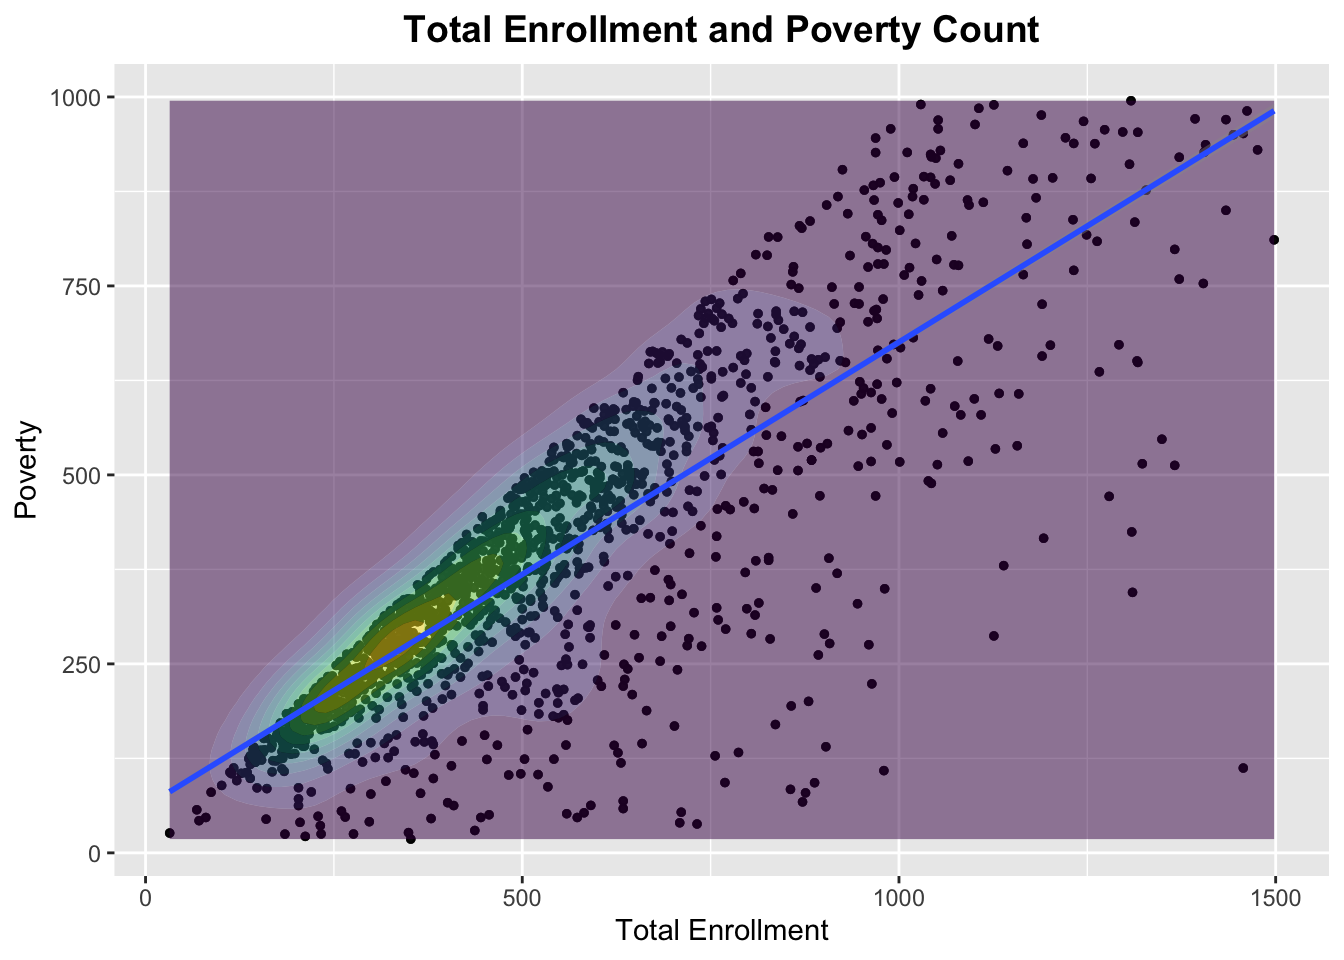
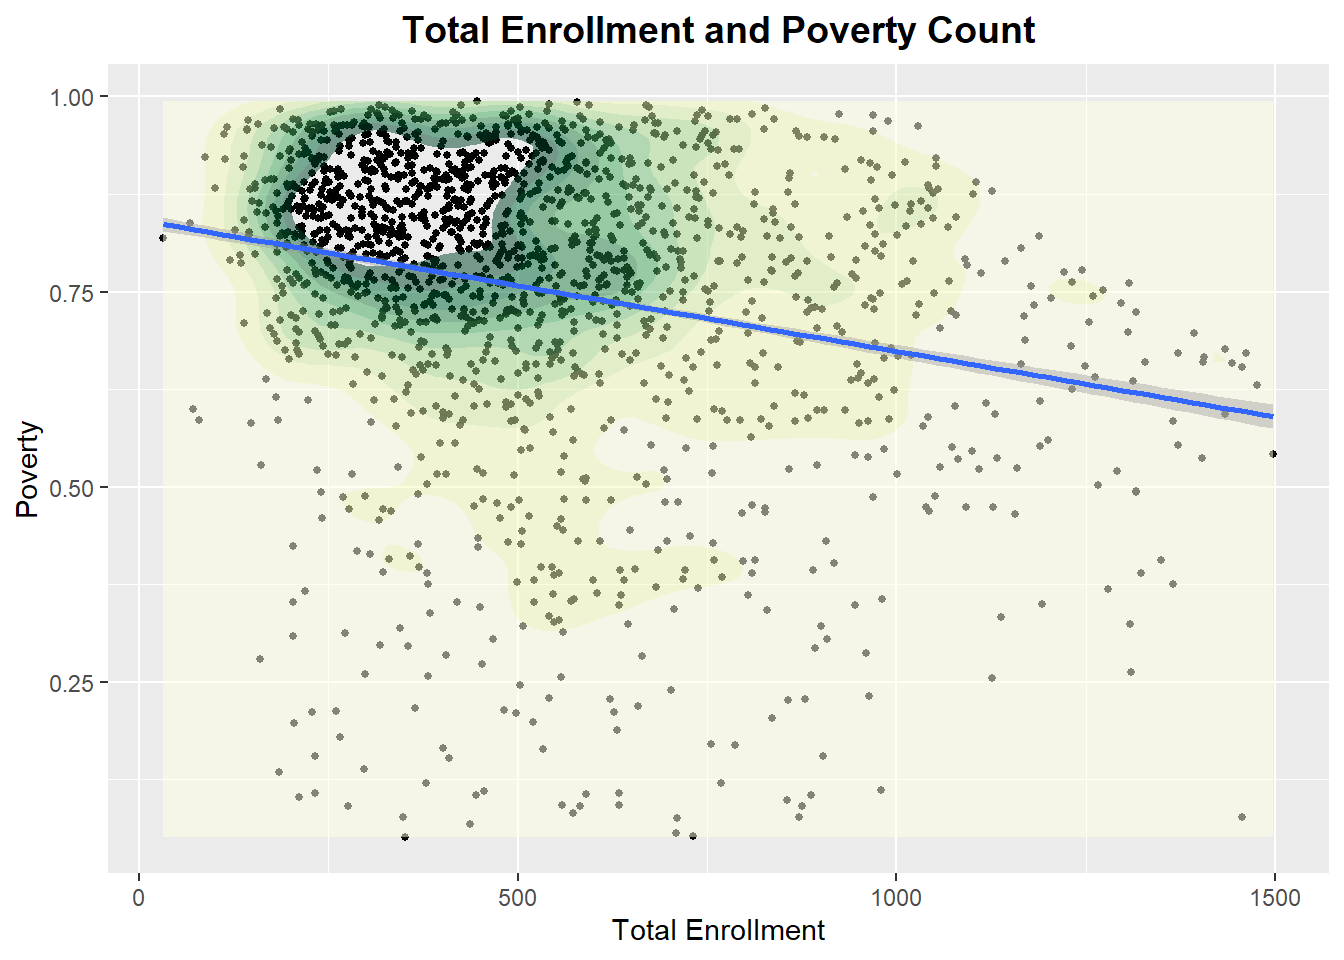
finish 05

diff --git a/docs/results.html b/docs/results.html
@@ -59,70 +59,6 @@
 <script src="libs/d3-5.16.0/d3.min.js"></script>
 
 
-<style type="text/css">
-pre > code.sourceCode { white-space: pre; position: relative; }
-pre > code.sourceCode > span { display: inline-block; line-height: 1.25; }
-pre > code.sourceCode > span:empty { height: 1.2em; }
-.sourceCode { overflow: visible; }
-code.sourceCode > span { color: inherit; text-decoration: inherit; }
-pre.sourceCode { margin: 0; }
-@media screen {
-div.sourceCode { overflow: auto; }
-}
-@media print {
-pre > code.sourceCode { white-space: pre-wrap; }
-pre > code.sourceCode > span { text-indent: -5em; padding-left: 5em; }
-}
-pre.numberSource code
-  { counter-reset: source-line 0; }
-pre.numberSource code > span
-  { position: relative; left: -4em; counter-increment: source-line; }
-pre.numberSource code > span > a:first-child::before
-  { content: counter(source-line);
-    position: relative; left: -1em; text-align: right; vertical-align: baseline;
-    border: none; display: inline-block;
-    -webkit-touch-callout: none; -webkit-user-select: none;
-    -khtml-user-select: none; -moz-user-select: none;
-    -ms-user-select: none; user-select: none;
-    padding: 0 4px; width: 4em;
-    color: #aaaaaa;
-  }
-pre.numberSource { margin-left: 3em; border-left: 1px solid #aaaaaa;  padding-left: 4px; }
-div.sourceCode
-  {   }
-@media screen {
-pre > code.sourceCode > span > a:first-child::before { text-decoration: underline; }
-}
-code span.al { color: #ff0000; font-weight: bold; } /* Alert */
-code span.an { color: #60a0b0; font-weight: bold; font-style: italic; } /* Annotation */
-code span.at { color: #7d9029; } /* Attribute */
-code span.bn { color: #40a070; } /* BaseN */
-code span.bu { } /* BuiltIn */
-code span.cf { color: #007020; font-weight: bold; } /* ControlFlow */
-code span.ch { color: #4070a0; } /* Char */
-code span.cn { color: #880000; } /* Constant */
-code span.co { color: #60a0b0; font-style: italic; } /* Comment */
-code span.cv { color: #60a0b0; font-weight: bold; font-style: italic; } /* CommentVar */
-code span.do { color: #ba2121; font-style: italic; } /* Documentation */
-code span.dt { color: #902000; } /* DataType */
-code span.dv { color: #40a070; } /* DecVal */
-code span.er { color: #ff0000; font-weight: bold; } /* Error */
-code span.ex { } /* Extension */
-code span.fl { color: #40a070; } /* Float */
-code span.fu { color: #06287e; } /* Function */
-code span.im { } /* Import */
-code span.in { color: #60a0b0; font-weight: bold; font-style: italic; } /* Information */
-code span.kw { color: #007020; font-weight: bold; } /* Keyword */
-code span.op { color: #666666; } /* Operator */
-code span.ot { color: #007020; } /* Other */
-code span.pp { color: #bc7a00; } /* Preprocessor */
-code span.sc { color: #4070a0; } /* SpecialChar */
-code span.ss { color: #bb6688; } /* SpecialString */
-code span.st { color: #4070a0; } /* String */
-code span.va { color: #19177c; } /* Variable */
-code span.vs { color: #4070a0; } /* VerbatimString */
-code span.wa { color: #60a0b0; font-weight: bold; font-style: italic; } /* Warning */
-</style>
 
 
 <link rel="stylesheet" href="style.css" type="text/css" />
@@ -187,13 +123,8 @@ code span.wa { color: #60a0b0; font-weight: bold; font-style: italic; } /* Warni
 <li class="chapter" data-level="5.4" data-path="results.html"><a href="results.html#correlation-hypothesis-and-analysis"><i class="fa fa-check"></i><b>5.4</b> Correlation Hypothesis and Analysis</a>
 <ul>
 <li class="chapter" data-level="5.4.1" data-path="results.html"><a href="results.html#poverty-rate-and-school-population"><i class="fa fa-check"></i><b>5.4.1</b> Poverty Rate and School Population</a></li>
-<li class="chapter" data-level="5.4.2" data-path="results.html"><a href="results.html#total-enrollment-and-ethnicity-composition"><i class="fa fa-check"></i><b>5.4.2</b> Total Enrollment and Ethnicity Composition</a></li>
-<li class="chapter" data-level="5.4.3" data-path="results.html"><a href="results.html#three-way-interaction-asian-composition-total-enrollment-poverty"><i class="fa fa-check"></i><b>5.4.3</b> Three-way Interaction: Asian Composition, Total Enrollment, Poverty</a></li>
-<li class="chapter" data-level="5.4.4" data-path="results.html"><a href="results.html#three-way-interaction-black-composition-total-enrollment-poverty"><i class="fa fa-check"></i><b>5.4.4</b> Three-way Interaction: Black Composition, Total Enrollment, Poverty</a></li>
-<li class="chapter" data-level="5.4.5" data-path="results.html"><a href="results.html#three-way-interaction-hispanic-composition-total-enrollment-poverty"><i class="fa fa-check"></i><b>5.4.5</b> Three-way Interaction: Hispanic Composition, Total Enrollment, Poverty</a></li>
-<li class="chapter" data-level="5.4.6" data-path="results.html"><a href="results.html#three-way-interaction-white-composition-total-enrollment-poverty"><i class="fa fa-check"></i><b>5.4.6</b> Three-way Interaction: White Composition, Total Enrollment, Poverty</a></li>
-<li class="chapter" data-level="5.4.7" data-path="results.html"><a href="results.html#larger-school-more-balanced-ethnicity-group"><i class="fa fa-check"></i><b>5.4.7</b> Larger School, More balanced Ethnicity Group?</a></li>
-<li class="chapter" data-level="5.4.8" data-path="results.html"><a href="results.html#gender-composition-and-ethnicity"><i class="fa fa-check"></i><b>5.4.8</b> Gender Composition and Ethnicity</a></li>
+<li class="chapter" data-level="5.4.2" data-path="results.html"><a href="results.html#three-way-interaction-race-composition-total-enrollment-poverty"><i class="fa fa-check"></i><b>5.4.2</b> Three-way Interaction: Race Composition, Total Enrollment, Poverty</a></li>
+<li class="chapter" data-level="5.4.3" data-path="results.html"><a href="results.html#gender-composition-and-poverty"><i class="fa fa-check"></i><b>5.4.3</b> Gender Composition and Poverty</a></li>
 </ul></li>
 </ul></li>
 <li class="chapter" data-level="6" data-path="interactive-component.html"><a href="interactive-component.html"><i class="fa fa-check"></i><b>6</b> Interactive component</a></li>
@@ -272,8 +203,8 @@ code span.wa { color: #60a0b0; font-weight: bold; font-style: italic; } /* Warni
 </ul>
 <p>Below we create a random sample of school to create a parallel coordinate plot. You can select, drag and reorder the columns to get a glimpse of race and ethnicity diversity in New York City public school.</p>
 <p><strong>Hint:</strong> Try to select sample with higher percentage of Black students, what’s the pattern considering other race group and location?</p>
-<div class="parcoords html-widget" height="480" id="htmlwidget-eb25a7f90b68626e1d12" style="width:672px;height:480px; position:relative; overflow-x:auto; overflow-y:hidden; max-width:100%;" width="672"></div>
-<script type="application/json" data-for="htmlwidget-eb25a7f90b68626e1d12">{"x":{"data":{"names":["1","2","3","4","5","6","7","8","9","10","11","12","13","14","15","16","17","18","19","20"],"School.Name":["I. S. 381","P.S. 051 Elias Howe","P.S. 087 William Sherman","Milton Fein School","Manhattan Bridges High School","Arturo A. Schomburg Satellite Academy Bronx","John Ericsson Middle School 126","P.S. 74 Future Leaders Elementary School","P.S. 169 Bay Terrace","Leadership Prep Bedford Stuyvesant Uncommon Prep C","P.S. 196 Grand Central Parkway","Success Academy Charter School - Harlem 1","I.S. 171 Abraham Lincoln","The Urban Assembly School for Law and Justice","H.E.R.O. High (Health, Education, and Research Occ","I.S. X318 Math, Science & Technology Through Arts","I.S. 072 Rocco Laurie","P.S. 307 Daniel Hale Williams","P.S. 062 Inocensio Casanova","P.S. 209"],"asian":[7.4,19.4,6.8,4.7,0.2,0.5,2.6,7,35.5,1,37,1.1,5.7,2.4,1.2,0,22.5,3.2,0.3,0.8],"black":[63.6,13.2,4.9,6.2,0.2,39.5,21.9,23,5.2,86.8,2.6,71.7,10.9,67.3,36.7,29.3,4.5,61.9,21.1,20.3],"white":[9,14.5,64,6.9,0,2.4,6.4,6.7,35.1,1,39.7,1.7,2,1.6,0.9,3,49.9,4.1,2.1,0],"hispanic":[20.1,49.7,14.8,81.8,99,57.1,68.7,62.9,21.8,8.9,13.5,22.6,77.9,24.7,58.9,67.7,22.3,28.6,76,78.9],"others":[0,3.3,9.5,0.4,0.6,0.5,0.4,0.3,2.5,2.2,7.2,2.9,3.5,4,2.3,0,0.8,2.2,0.5,0],"location":["Brooklyn","Manhattan","Manhattan","Bronx","Manhattan","Bronx","Brooklyn","Staten Island","Queens","Brooklyn","Queens","Manhattan","Brooklyn","Brooklyn","Bronx","Bronx","Staten Island","Brooklyn","Bronx","Bronx"]},"options":{"rownames":false,"color":{"colorBy":"location","colorScale":"scaleOrdinal","colorScheme":"schemeCategory10"},"brushMode":"1D-axes","brushPredicate":"AND","reorderable":true,"margin":{"top":50,"bottom":50,"left":100,"right":50},"mode":"queue","bundlingStrength":0.5,"smoothness":0},"autoresize":false,"tasks":null},"evals":[],"jsHooks":[]}</script>
+<div class="parcoords html-widget" height="480" id="htmlwidget-faf70f4c64348a5e6104" style="width:672px;height:480px; position:relative; overflow-x:auto; overflow-y:hidden; max-width:100%;" width="672"></div>
+<script type="application/json" data-for="htmlwidget-faf70f4c64348a5e6104">{"x":{"data":{"names":["1","2","3","4","5","6","7","8","9","10","11","12","13","14","15","16","17","18","19","20"],"School.Name":["P.S. 159","J.H.S. 194 William Carr","The Hunts Point School","Family Life Academy Charter School","Long Island City High School","M.S. M247 Dual Language Middle School","Brooklyn Arts and Science Elementary School","The Bronx Mathematics Preparatory School","P.S. 193 Gil Hodges","P.S. 023 Richmondtown","P.S. 202 Ernest S. Jenkyns","Bronx Studio School for Writers and Artists","Bronx Early College Academy for Teaching & Learnin","The Anderson School","P.S. 065","Olympus Academy","P.S. K077","Academy of the City Charter School","P.S. 063 Author's Academy","New Design Middle School"],"asian":[44.1,32.7,0.3,0.6,15.6,0,5.3,2.4,17.3,3.8,0.4,0.7,2.6,28.8,1.7,1.6,12.1,20.6,0.7,0.6],"black":[2.2,1.9,29.2,19.6,12.4,0.9,46.6,33.5,45.7,1.1,60.6,22.4,29,5.6,11.4,83.7,45.3,12.2,36.7,55.6],"white":[31.9,33.6,0.3,0.4,6.5,0.9,18.5,0,17.8,77.3,0.9,1,1.8,55.4,0.2,0.5,20.8,13.7,2.9,3.1],"hispanic":[20.4,31.1,70,78.7,63.6,98.1,28.6,63.3,13.6,16.3,37,75.5,66.1,8.5,81,13.2,21.1,51.1,58.9,40.7],"others":[1.3,0.6,0.3,0.6,1.9,0,1.1,0.8,5.6,1.5,1,0.3,0.6,1.7,5.7,1.1,0.7,2.4,0.8,0],"location":["Queens","Queens","Bronx","Bronx","Queens","Manhattan","Brooklyn","Bronx","Brooklyn","Staten Island","Brooklyn","Bronx","Bronx","Manhattan","Brooklyn","Brooklyn","Brooklyn","Queens","Bronx","Manhattan"]},"options":{"rownames":false,"color":{"colorBy":"location","colorScale":"scaleOrdinal","colorScheme":"schemeCategory10"},"brushMode":"1D-axes","brushPredicate":"AND","reorderable":true,"margin":{"top":50,"bottom":50,"left":100,"right":50},"mode":"queue","bundlingStrength":0.5,"smoothness":0},"autoresize":false,"tasks":null},"evals":[],"jsHooks":[]}</script>
 </div>
 <div id="school-type-and-ethnicity-composition" class="section level3" number="5.3.2">
 <h3><span class="header-section-number">5.3.2</span> School Type and Ethnicity Composition</h3>
@@ -302,41 +233,25 @@ According to the stacked percentage barplot of ethnic group distribution in diff
 <p>As projected in Chapter 2, we proposed several relationships which can be further investigated through our dataset. In this section, we are going to look at the relationship between factors which affects school diversity given from different perspectives.</p>
 <div id="poverty-rate-and-school-population" class="section level3" number="5.4.1">
 <h3><span class="header-section-number">5.4.1</span> Poverty Rate and School Population</h3>
+<p>Firstly, we care about the single influencer of Poverty level in public schools. Considering the size of school enrollment and poverty rate, we construct scatter plot to see whether there exists patterns, like larger school with high poverty level or vice versa.</p>
 <p><img src="finalproj_files/figure-html/ch5.8-1.png" width="672" /></p>
-</div>
-<div id="total-enrollment-and-ethnicity-composition" class="section level3" number="5.4.2">
-<h3><span class="header-section-number">5.4.2</span> Total Enrollment and Ethnicity Composition</h3>
+<ul>
+<li><p>As the scatter plot shown, while the variance of sample from public schools are large, it is still possible to see the negative relationship between school size and poverty rate.Most of the public schools in NYC has an enrollment around 250-750 with a poverty ratre higher than 75%.</p></li>
+<li><p>Outliers exist in every dimensions, but there appears to be a straight line border with a negative slope above the collection of points in the plot when total enrollment is larger than 1000.</p></li>
+</ul>
 <p><img src="finalproj_files/figure-html/ch5.15-1.png" width="672" /></p>
 </div>
-<div id="three-way-interaction-asian-composition-total-enrollment-poverty" class="section level3" number="5.4.3">
-<h3><span class="header-section-number">5.4.3</span> Three-way Interaction: Asian Composition, Total Enrollment, Poverty</h3>
-<p><img src="finalproj_files/figure-html/5.9-1.png" width="672" /></p>
-</div>
-<div id="three-way-interaction-black-composition-total-enrollment-poverty" class="section level3" number="5.4.4">
-<h3><span class="header-section-number">5.4.4</span> Three-way Interaction: Black Composition, Total Enrollment, Poverty</h3>
-<p><img src="finalproj_files/figure-html/ch5.10-1.png" width="672" /></p>
-</div>
-<div id="three-way-interaction-hispanic-composition-total-enrollment-poverty" class="section level3" number="5.4.5">
-<h3><span class="header-section-number">5.4.5</span> Three-way Interaction: Hispanic Composition, Total Enrollment, Poverty</h3>
-<p><img src="finalproj_files/figure-html/ch5.11-1.png" width="672" /></p>
-</div>
-<div id="three-way-interaction-white-composition-total-enrollment-poverty" class="section level3" number="5.4.6">
-<h3><span class="header-section-number">5.4.6</span> Three-way Interaction: White Composition, Total Enrollment, Poverty</h3>
+<div id="three-way-interaction-race-composition-total-enrollment-poverty" class="section level3" number="5.4.2">
+<h3><span class="header-section-number">5.4.2</span> Three-way Interaction: Race Composition, Total Enrollment, Poverty</h3>
+<p>As we hypothesized, ethnic composition may have strong relations with the proportion of students in poverty since the minority ethnic groups are more likely to be immigrants and has lower economics income.</p>
 <p><img src="finalproj_files/figure-html/ch5.12-1.png" width="672" /></p>
+<p>The result from scatter plots of ethic group breakdown supports our hypothesis. Apart from white students proportion, the sample of poverty and ethic group proportion are all positive correlated. Moreover, the slope steepness of positive correlation between poverty and proportion of Hispanic students is largest among four ethic groups, indicates that schools with higher proportion of Hispanic students are more likely to have higher poverty level.</p>
 </div>
-<div id="larger-school-more-balanced-ethnicity-group" class="section level3" number="5.4.7">
-<h3><span class="header-section-number">5.4.7</span> Larger School, More balanced Ethnicity Group?</h3>
-</div>
-<div id="gender-composition-and-ethnicity" class="section level3" number="5.4.8">
-<h3><span class="header-section-number">5.4.8</span> Gender Composition and Ethnicity</h3>
-<pre><code>## # A tibble: 5 × 8
-##   location      Asian Hispanic Black Others White  Male Female
-##   &lt;chr&gt;         &lt;dbl&gt;    &lt;dbl&gt; &lt;dbl&gt;  &lt;dbl&gt; &lt;dbl&gt; &lt;dbl&gt;  &lt;dbl&gt;
-## 1 Bronx            25      333   150      7    23   279    260
-## 2 Brooklyn         92      164   224     10    96   303    283
-## 3 Manhattan        60      219   116     14    78   239    247
-## 4 Queens          230      308   152     21   106   425    392
-## 5 Staten Island    73      234   115     15   404   436    406</code></pre>
+<div id="gender-composition-and-poverty" class="section level3" number="5.4.3">
+<h3><span class="header-section-number">5.4.3</span> Gender Composition and Poverty</h3>
+<p>Recall our assumption in chapter 2, we try to explore the relationship between school poverty level and gender composition. Based on social conventions, we want to know whether gender bias in education can also be reflected by observations in NYC public schools.</p>
+<p><img src="finalproj_files/figure-html/unnamed-chunk-5-1.png" width="672" /></p>
+<p>As we shown in poverty level before, most public schools in NYC have large quantity of students in poverty. However, though the poverty level is high, the average proportion of male students in NYC public schools are around 50%, which is a good sign indicating that there’s no bias when considering gender diversity and poverty level.</p>
 
 </div>
 </div>

diff --git a/docs/404.html b/docs/404.html
@@ -59,70 +59,6 @@
 <script src="libs/d3-5.16.0/d3.min.js"></script>
 
 
-<style type="text/css">
-pre > code.sourceCode { white-space: pre; position: relative; }
-pre > code.sourceCode > span { display: inline-block; line-height: 1.25; }
-pre > code.sourceCode > span:empty { height: 1.2em; }
-.sourceCode { overflow: visible; }
-code.sourceCode > span { color: inherit; text-decoration: inherit; }
-pre.sourceCode { margin: 0; }
-@media screen {
-div.sourceCode { overflow: auto; }
-}
-@media print {
-pre > code.sourceCode { white-space: pre-wrap; }
-pre > code.sourceCode > span { text-indent: -5em; padding-left: 5em; }
-}
-pre.numberSource code
-  { counter-reset: source-line 0; }
-pre.numberSource code > span
-  { position: relative; left: -4em; counter-increment: source-line; }
-pre.numberSource code > span > a:first-child::before
-  { content: counter(source-line);
-    position: relative; left: -1em; text-align: right; vertical-align: baseline;
-    border: none; display: inline-block;
-    -webkit-touch-callout: none; -webkit-user-select: none;
-    -khtml-user-select: none; -moz-user-select: none;
-    -ms-user-select: none; user-select: none;
-    padding: 0 4px; width: 4em;
-    color: #aaaaaa;
-  }
-pre.numberSource { margin-left: 3em; border-left: 1px solid #aaaaaa;  padding-left: 4px; }
-div.sourceCode
-  {   }
-@media screen {
-pre > code.sourceCode > span > a:first-child::before { text-decoration: underline; }
-}
-code span.al { color: #ff0000; font-weight: bold; } /* Alert */
-code span.an { color: #60a0b0; font-weight: bold; font-style: italic; } /* Annotation */
-code span.at { color: #7d9029; } /* Attribute */
-code span.bn { color: #40a070; } /* BaseN */
-code span.bu { } /* BuiltIn */
-code span.cf { color: #007020; font-weight: bold; } /* ControlFlow */
-code span.ch { color: #4070a0; } /* Char */
-code span.cn { color: #880000; } /* Constant */
-code span.co { color: #60a0b0; font-style: italic; } /* Comment */
-code span.cv { color: #60a0b0; font-weight: bold; font-style: italic; } /* CommentVar */
-code span.do { color: #ba2121; font-style: italic; } /* Documentation */
-code span.dt { color: #902000; } /* DataType */
-code span.dv { color: #40a070; } /* DecVal */
-code span.er { color: #ff0000; font-weight: bold; } /* Error */
-code span.ex { } /* Extension */
-code span.fl { color: #40a070; } /* Float */
-code span.fu { color: #06287e; } /* Function */
-code span.im { } /* Import */
-code span.in { color: #60a0b0; font-weight: bold; font-style: italic; } /* Information */
-code span.kw { color: #007020; font-weight: bold; } /* Keyword */
-code span.op { color: #666666; } /* Operator */
-code span.ot { color: #007020; } /* Other */
-code span.pp { color: #bc7a00; } /* Preprocessor */
-code span.sc { color: #4070a0; } /* SpecialChar */
-code span.ss { color: #bb6688; } /* SpecialString */
-code span.st { color: #4070a0; } /* String */
-code span.va { color: #19177c; } /* Variable */
-code span.vs { color: #4070a0; } /* VerbatimString */
-code span.wa { color: #60a0b0; font-weight: bold; font-style: italic; } /* Warning */
-</style>
 
 
 <link rel="stylesheet" href="style.css" type="text/css" />
@@ -187,13 +123,8 @@ code span.wa { color: #60a0b0; font-weight: bold; font-style: italic; } /* Warni
 <li class="chapter" data-level="5.4" data-path="results.html"><a href="results.html#correlation-hypothesis-and-analysis"><i class="fa fa-check"></i><b>5.4</b> Correlation Hypothesis and Analysis</a>
 <ul>
 <li class="chapter" data-level="5.4.1" data-path="results.html"><a href="results.html#poverty-rate-and-school-population"><i class="fa fa-check"></i><b>5.4.1</b> Poverty Rate and School Population</a></li>
-<li class="chapter" data-level="5.4.2" data-path="results.html"><a href="results.html#total-enrollment-and-ethnicity-composition"><i class="fa fa-check"></i><b>5.4.2</b> Total Enrollment and Ethnicity Composition</a></li>
-<li class="chapter" data-level="5.4.3" data-path="results.html"><a href="results.html#three-way-interaction-asian-composition-total-enrollment-poverty"><i class="fa fa-check"></i><b>5.4.3</b> Three-way Interaction: Asian Composition, Total Enrollment, Poverty</a></li>
-<li class="chapter" data-level="5.4.4" data-path="results.html"><a href="results.html#three-way-interaction-black-composition-total-enrollment-poverty"><i class="fa fa-check"></i><b>5.4.4</b> Three-way Interaction: Black Composition, Total Enrollment, Poverty</a></li>
-<li class="chapter" data-level="5.4.5" data-path="results.html"><a href="results.html#three-way-interaction-hispanic-composition-total-enrollment-poverty"><i class="fa fa-check"></i><b>5.4.5</b> Three-way Interaction: Hispanic Composition, Total Enrollment, Poverty</a></li>
-<li class="chapter" data-level="5.4.6" data-path="results.html"><a href="results.html#three-way-interaction-white-composition-total-enrollment-poverty"><i class="fa fa-check"></i><b>5.4.6</b> Three-way Interaction: White Composition, Total Enrollment, Poverty</a></li>
-<li class="chapter" data-level="5.4.7" data-path="results.html"><a href="results.html#larger-school-more-balanced-ethnicity-group"><i class="fa fa-check"></i><b>5.4.7</b> Larger School, More balanced Ethnicity Group?</a></li>
-<li class="chapter" data-level="5.4.8" data-path="results.html"><a href="results.html#gender-composition-and-ethnicity"><i class="fa fa-check"></i><b>5.4.8</b> Gender Composition and Ethnicity</a></li>
+<li class="chapter" data-level="5.4.2" data-path="results.html"><a href="results.html#three-way-interaction-race-composition-total-enrollment-poverty"><i class="fa fa-check"></i><b>5.4.2</b> Three-way Interaction: Race Composition, Total Enrollment, Poverty</a></li>
+<li class="chapter" data-level="5.4.3" data-path="results.html"><a href="results.html#gender-composition-and-poverty"><i class="fa fa-check"></i><b>5.4.3</b> Gender Composition and Poverty</a></li>
 </ul></li>
 </ul></li>
 <li class="chapter" data-level="6" data-path="interactive-component.html"><a href="interactive-component.html"><i class="fa fa-check"></i><b>6</b> Interactive component</a></li>
